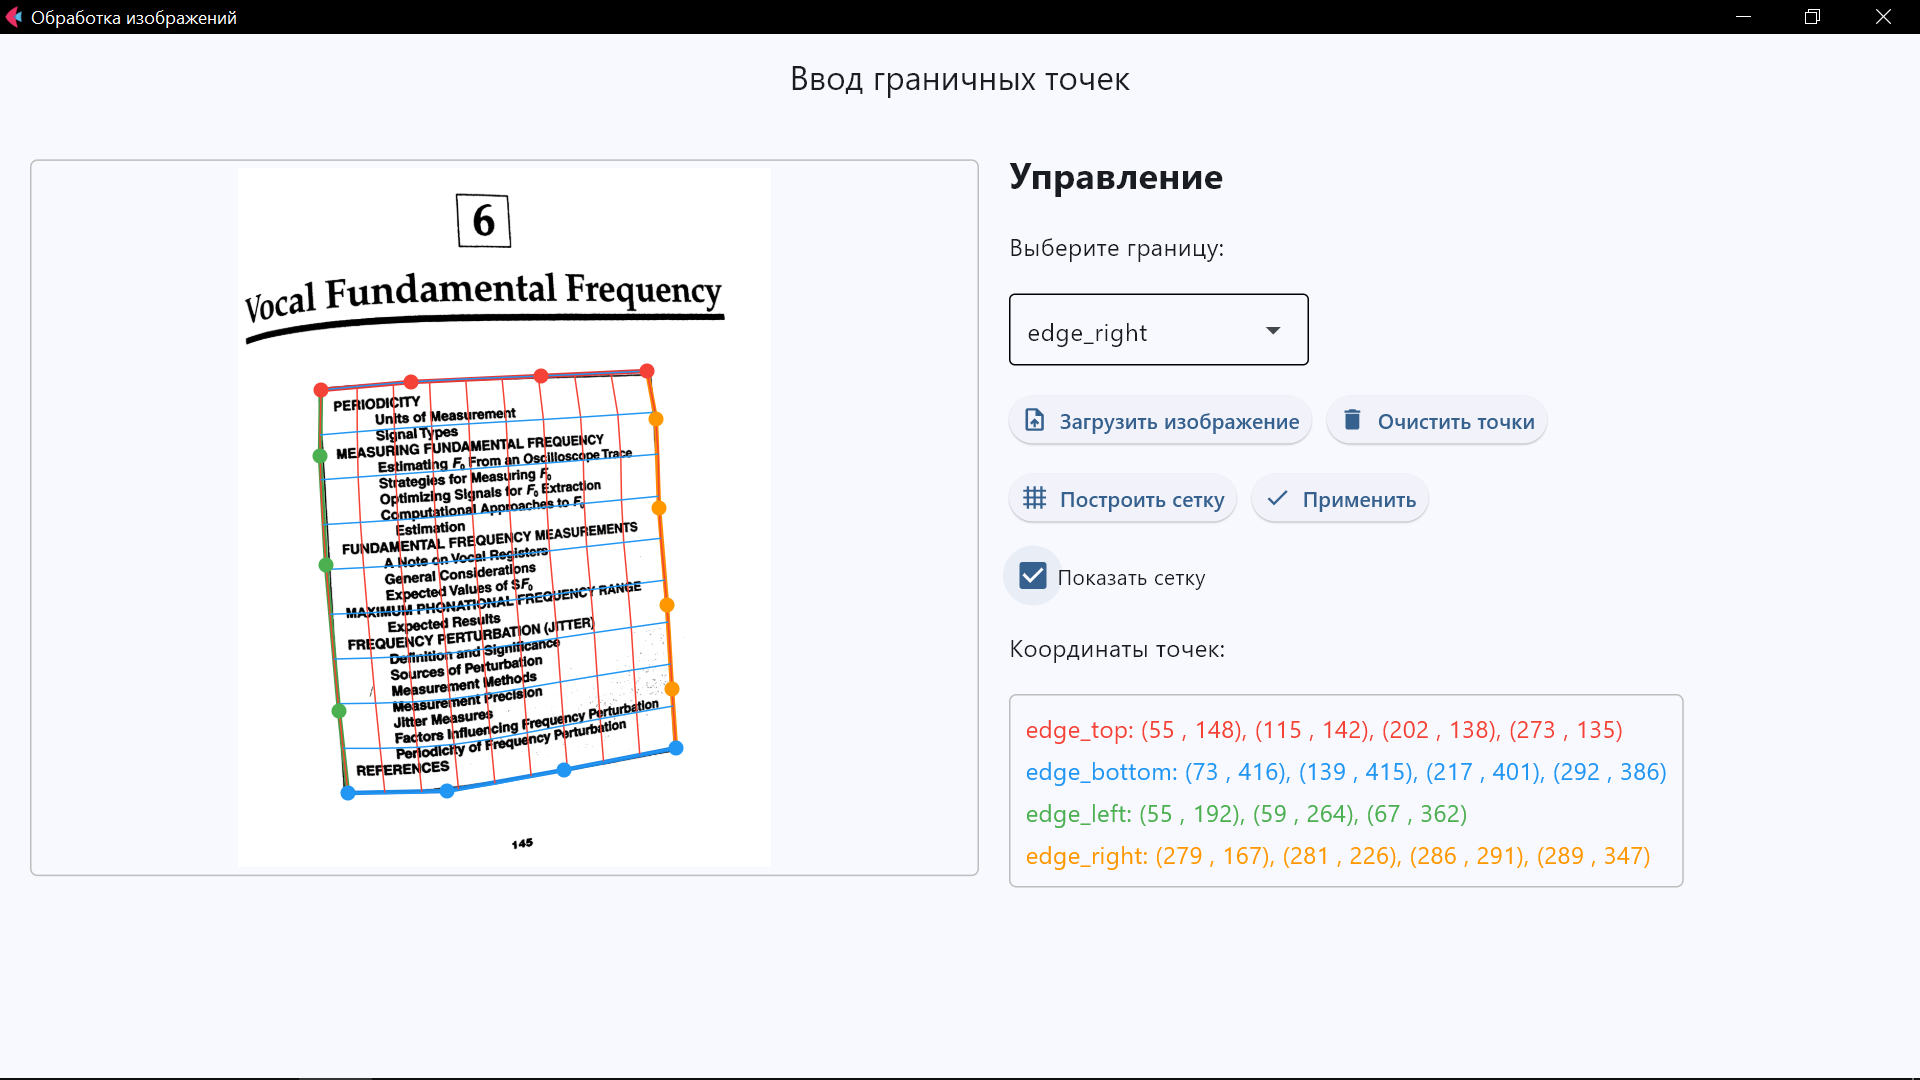
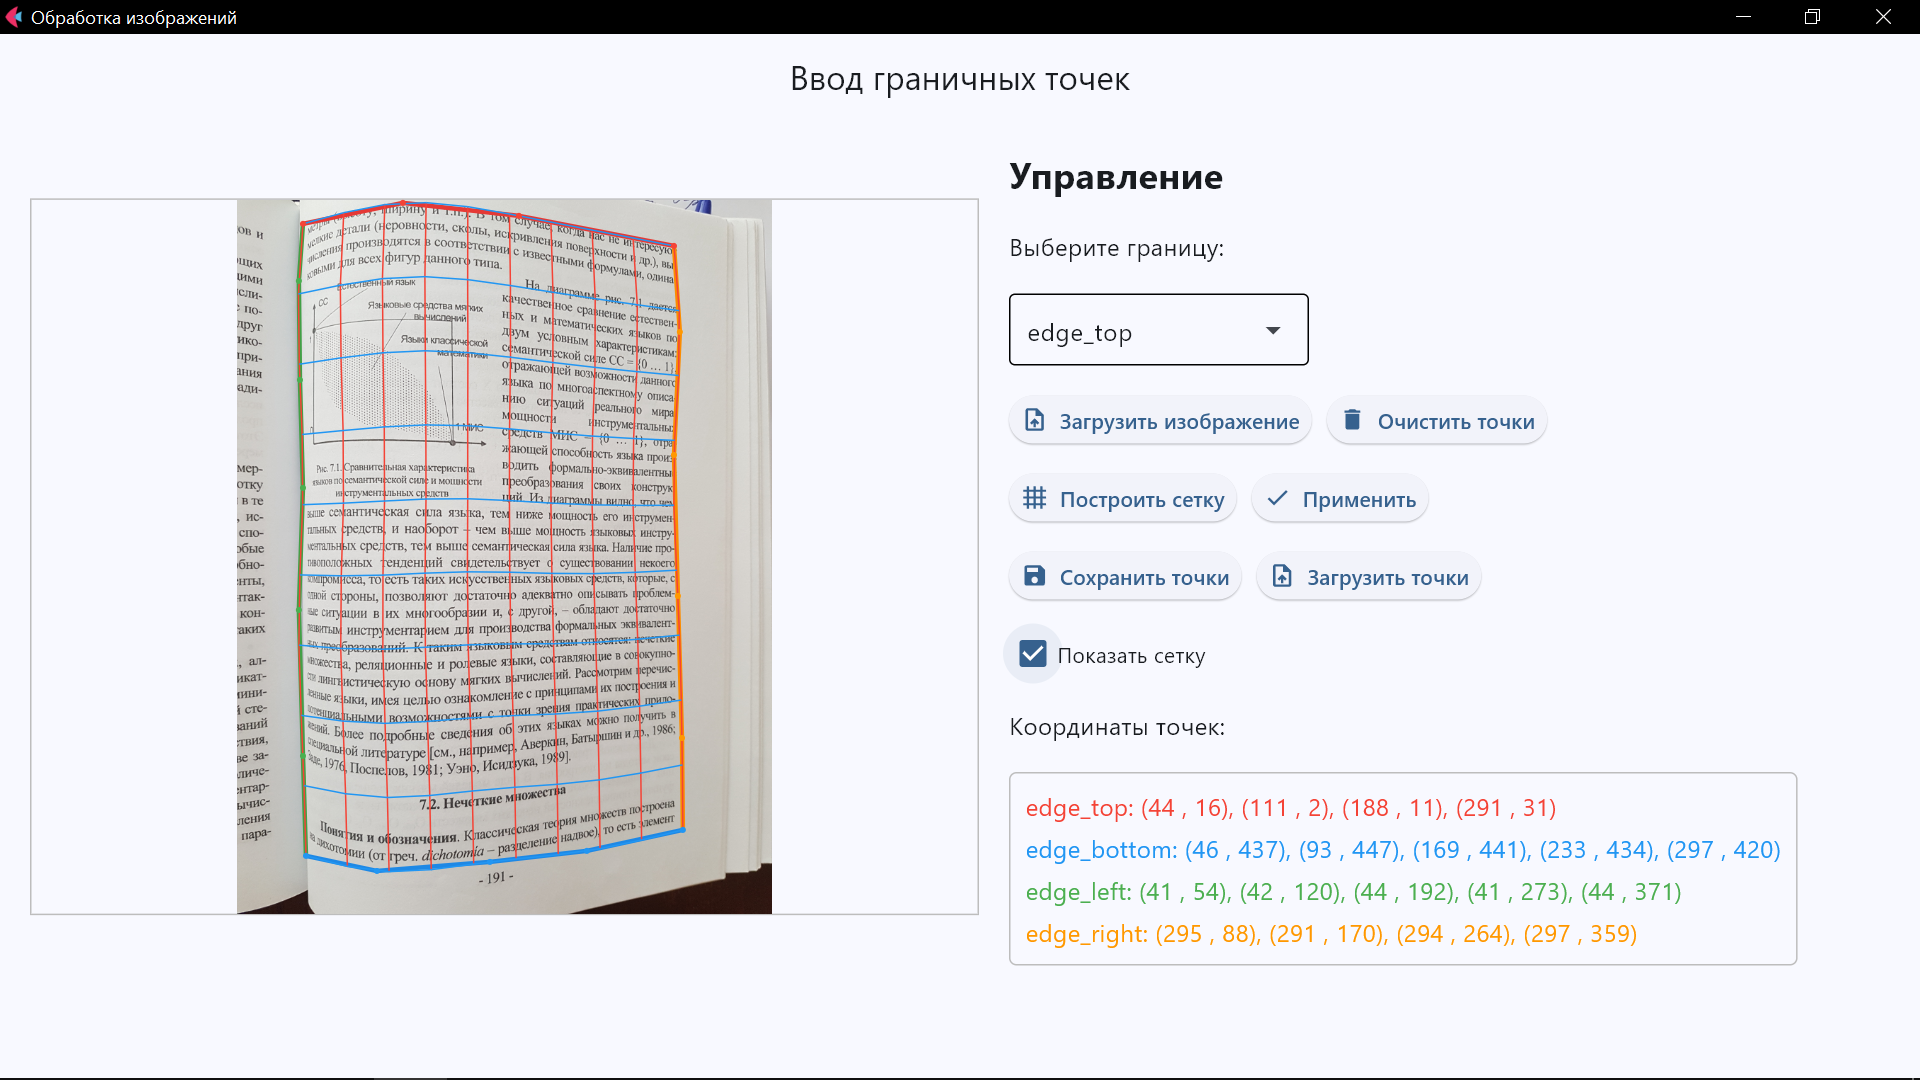
feat: загрузка и выгрузка точек из json файла
11-май-2025 21:45

- Обновлена документация
- Масштабирование координат и функция сохранения/загрузки из json файла
- Убран баг с неверным отображением сетки в режиме просмотра

diff --git a/ui/main_page.py b/ui/main_page.py
@@ -3,7 +3,9 @@ from flet import canvas as canv
 import cv2
 import tempfile
 import numpy as np
+import json
 from core.utils import build_mesh_function, preprocess_edges
+from datetime import datetime
 
 def create_main_page(page: ft.Page):
     # Названия границ
@@ -11,6 +13,7 @@ def create_main_page(page: ft.Page):
 
     # Списки для хранения точек разных границ
     points_lists = {name: [] for name in border_names}
+    edge_points_lists = {name: [] for name in border_names}
     
     # Цвета для границ
     colors = {
@@ -31,15 +34,18 @@ def create_main_page(page: ft.Page):
     current_image_path = None
 
     # Изображения для обоих режимов
+    RATIO = None
+    STACK_IMAGE_HEIGHT = page.height * 0.7
     image_display = ft.Image(
         fit=ft.ImageFit.CONTAIN,
         visible=False,
-        height=page.height * 0.7,
+        height=STACK_IMAGE_HEIGHT
     )
     
     # Stack для наложения точек на изображение
     image_stack = ft.Stack(
         [image_display],
+        height=STACK_IMAGE_HEIGHT
     )
 
     # Функция для обработки клика по изображению
@@ -48,18 +54,20 @@ def create_main_page(page: ft.Page):
             # Получаем координаты клика относительно изображения
             x = e.local_x
             y = e.local_y
-            
+
             # Создаем точку
             point = ft.Container(
                 content=ft.CircleAvatar(
                     bgcolor=colors[current_border],
-                    radius=5,
+                    radius=2,
                 ),
-                left = x - 5,  # Центрируем точку относительно клика
-                top = y - 5
+                left=e.local_x - 2,  # Используем оригинальные координаты для отображения
+                top=e.local_y - 2
             )
             
+            # Сохраняем координаты с учетом масштаба
             points_lists[current_border].append((x, y))
+            edge_points_lists[current_border].append((int((x * RATIO)), int((y * RATIO))))
             image_stack.controls.append(point)
             
             update_coords_text()
@@ -70,7 +78,8 @@ def create_main_page(page: ft.Page):
     gesture = ft.GestureDetector(
         mouse_cursor=ft.MouseCursor.CLICK,
         content=image_stack,
-        on_tap_up=handle_image_click
+        on_tap_up=handle_image_click,
+        height=STACK_IMAGE_HEIGHT
     )
 
     # Для правой панели: отдельный список для отображения точек после построения сетки
@@ -80,13 +89,13 @@ def create_main_page(page: ft.Page):
     image_display_left = ft.Image(
         fit=ft.ImageFit.CONTAIN,
         visible=False,
-        height=page.height * 0.7
+        height=STACK_IMAGE_HEIGHT
     )
     
     image_display_right = ft.Image(
         fit=ft.ImageFit.CONTAIN,
         visible=False,
-        height=page.height * 0.7
+        height=STACK_IMAGE_HEIGHT
     )
 
     # Stack для изображений в режиме просмотра
@@ -157,58 +166,73 @@ def create_main_page(page: ft.Page):
         dlg.open = True
         page.update()
 
+    def process_new_image(file_path):
+        # Сохраняем путь к текущему изображению
+        nonlocal current_image_path
+        current_image_path = file_path
+        
+        # Сбрасываем флаг построения сетки
+        nonlocal grid_built, show_grid
+        grid_built = False
+        show_grid = False
+        show_grid_checkbox.value = False
+        
+        for border in points_lists:
+            points_lists[border].clear()
+            edge_points_lists[border].clear()
+        
+        # Обновляем изображения для обоих режимов
+        image_stack.controls = [image_display]
+        image_display.src = file_path
+        image_display.visible = True
+        
+        image_stack_left.controls = [image_display_left]
+        image_display_left.src = file_path
+        image_display_left.visible = True
+        
+        # Создаем версию изображения с водяным знаком для правой панели
+        watermarked_image = add_watermark(file_path)
+        if watermarked_image:
+            image_display_right.src = watermarked_image
+        else:
+            image_display_right.src = file_path
+        
+        image_display_right.visible = True
+        
+        # Загружаем изображение для получения его размеров
+        img = cv2.imread(file_path)
+        if img is not None:
+            img_height, img_width = img.shape[:2]
+            # Вычисляем коэффициент масштабирования с учетом соотношения сторон
+            nonlocal RATIO
+            RATIO = img_height / image_stack.height
+        
+        # Настраиваем размеры стеков в соответствии с изображением
+        image_stack.width = image_display.width
+        image_stack.height = image_display.height
+        image_stack_left.width = image_display_left.width 
+        image_stack_left.height = image_display_left.height
+        image_stack_right.width = image_display_right.width
+        image_stack_right.height = image_display_right.height
+                
+                
     # Функция для обработки загрузки файла
     def handle_file_upload(e: ft.FilePickerResultEvent):
         if e.files:
             file_path = e.files[0].path
             if file_path:
-                # Сохраняем путь к текущему изображению
-                nonlocal current_image_path
-                current_image_path = file_path
-                
-                # Сбрасываем флаг построения сетки
-                nonlocal grid_built, show_grid
-                grid_built = False
-                show_grid = False
-                show_grid_checkbox.value = False
-                
-                for border in points_lists:
-                    points_lists[border].clear()
-                    built_points[border].clear()
-                
-                # Обновляем изображения для обоих режимов
-                image_stack.controls = [image_display]
-                image_display.src = file_path
-                image_display.visible = True
-                
-                image_stack_left.controls = [image_display_left]
-                image_display_left.src = file_path
-                image_display_left.visible = True
-                
-                # Создаем версию изображения с водяным знаком для правой панели
-                watermarked_image = add_watermark(file_path)
-                if watermarked_image:
-                    image_display_right.src = watermarked_image
-                else:
-                    image_display_right.src = file_path
-                
-                image_display_right.visible = True
-                
-                # Настраиваем размеры стеков в соответствии с изображением
-                image_stack.width = image_display.width
-                image_stack.height = image_display.height
-                image_stack_left.width = image_display_left.width 
-                image_stack_left.height = image_display_left.height
-                image_stack_right.width = image_display_right.width
-                image_stack_right.height = image_display_right.height
-                
+                process_new_image(file_path)
                 update_coords_text()
                 update_button_states()
                 page.update()
 
-    # Создаем FilePicker
+    # Создаем FilePicker'ы для всех операций с файлами
     file_picker = ft.FilePicker(on_result=handle_file_upload)
-    page.overlay.append(file_picker)
+    save_picker = ft.FilePicker()
+    load_picker = ft.FilePicker()
+    
+    # Добавляем все FilePicker'ы на страницу
+    page.overlay.extend([file_picker, save_picker, load_picker])
 
     # Создаем кнопку загрузки
     upload_button = ft.ElevatedButton(
@@ -458,13 +482,115 @@ def create_main_page(page: ft.Page):
         disabled=True  # Изначально неактивна
     )
     
-    # Функция обновления состояния кнопок
+    # Функция сохранения точек в JSON файл
+    def save_points_to_json(e):
+        if not current_image_path:
+            show_alert("Сначала загрузите изображение!")
+            return
+            
+        # Создаем структуру данных для сохранения
+        save_data = {
+            "points": edge_points_lists.copy(),
+            "image_path": current_image_path,
+            "timestamp": datetime.now().isoformat()
+        }
+        
+        # Создаем диалог сохранения файла
+        def handle_save(e: ft.FilePickerResultEvent):
+            if e.path:
+                try:
+                    with open(e.path, 'w', encoding='utf-8') as f:
+                        json.dump(save_data, f, indent=2)
+                    show_alert("Точки успешно сохранены!")
+                except Exception as e:
+                    show_alert(f"Ошибка при сохранении: {str(e)}")
+        
+        # Устанавливаем обработчик и открываем диалог сохранения
+        save_picker.on_result = handle_save
+        save_picker.save_file(
+            allowed_extensions=["json"],
+            file_name="points.json"
+        )
+
+    # Функция для загрузки точек из JSON файла
+    def load_points_from_json(e):
+        def handle_load(e: ft.FilePickerResultEvent):
+            if e.files:
+                try:
+                    with open(e.files[0].path, 'r', encoding='utf-8') as f:
+                        load_data: dict = json.load(f)
+                    
+                    # Проверяем наличие необходимых данных
+                    for edge_name in edge_points_lists.keys():
+                        if edge_name not in load_data["points"].keys():
+                            show_alert("Некорректный формат файла!")
+                            return
+                    
+                    process_new_image(load_data["image_path"])
+                    
+                    # Загружаем точки
+                    for border, points in load_data["points"].items():
+                        edge_points_lists[border].extend(points)
+                        temp_points = np.array(points, dtype=int) / RATIO
+                        points_lists[border].extend(temp_points.tolist())
+                    
+                    # Обновляем отображение
+                    image_stack.controls = [image_display]
+                    image_display.src = current_image_path
+                    image_display.visible = True
+                    
+                    # Добавляем точки на изображение
+                    for border, points in points_lists.items():
+                        for p in points:
+                            point = ft.Container(
+                                content=ft.CircleAvatar(
+                                    bgcolor=colors[border],
+                                    radius=2,
+                                ),
+                                left=p[0] - 2,
+                                top=p[1] - 2
+                            )
+                            image_stack.controls.append(point)
+                    
+                    # Обновляем состояние
+                    update_coords_text()
+                    update_button_states()
+                    
+                    page.update()
+                    
+                except Exception as e:
+                    show_alert(f"Ошибка при загрузке: {str(e)}")
+        
+        # Устанавливаем обработчик и открываем диалог загрузки
+        load_picker.on_result = handle_load
+        load_picker.pick_files(
+            allowed_extensions=["json"]
+        )
+
+    # Создаем кнопки для сохранения и загрузки
+    save_button = ft.ElevatedButton(
+        "Сохранить точки",
+        icon=ft.icons.SAVE,
+        on_click=save_points_to_json,
+        disabled=True  # Изначально неактивна
+    )
+    
+    load_button = ft.ElevatedButton(
+        "Загрузить точки",
+        icon=ft.icons.UPLOAD_FILE,
+        on_click=load_points_from_json
+    )
+
+    # Обновляем функцию update_button_states
     def update_button_states():
         # Кнопка построения сетки активна только если есть достаточно точек
         build_button.disabled = not check_points()
         
         # Кнопка применения активна только после успешного построения сетки
         apply_button.disabled = not grid_built
+        
+        # Кнопка сохранения активна только если есть точки
+        save_button.disabled = not any(points for points in points_lists.values())
         
         page.update()
 
@@ -492,6 +618,10 @@ def create_main_page(page: ft.Page):
             build_button,
             apply_button
         ], spacing=10, wrap=True),
+        ft.Row([
+            save_button,
+            load_button
+        ], spacing=10, wrap=True),
         show_grid_checkbox,
         ft.Text("Координаты точек:", size=16),
         coords_container
@@ -502,10 +632,10 @@ def create_main_page(page: ft.Page):
         ft.Container(
             content=gesture,
             border=ft.border.all(1, ft.Colors.GREY_400),
-            border_radius=5,
-            padding=5,
+            # border_radius=5,
+            # padding=5,
             width=page.width * 0.5,
-            height=page.height * 0.7,
+            height=STACK_IMAGE_HEIGHT,
             alignment=ft.alignment.center
         ),
         ft.Container(

diff --git a/CHANGELOG.md b/CHANGELOG.md
@@ -1,5 +1,30 @@
 # CHANGELOG
 
+## 11-май-2025 21:45
+
+### Исправлено
+
+- Устранён баг со смещённым отображением сетки в режиме просмотра:
+  - Убран padding, который уменьшал область для ввода точек
+  - Теперь сетка корректно отображается на изображении в режиме просмотра
+
+### Добавлено
+
+- **Сохранение и загрузка точек границ:**
+  - Добавлена возможность сохранения точек в JSON-файл
+  - Реализована загрузка точек из JSON-файла
+  - Формат JSON включает:
+    - Координаты точек для каждой границы
+    - Путь к исходному изображению
+    - Временную метку сохранения
+
+### Улучшено
+
+- **Работа с координатами:**
+  - Добавлен автоматический перевод локальных координат ввода в масштаб загруженного изображения
+  - В интерфейсе отображаются локальные координаты
+  - При сохранении используются координаты в масштабе исходного изображения
+
 ## 11-май-2025 18:30
 
 ### Изменено
